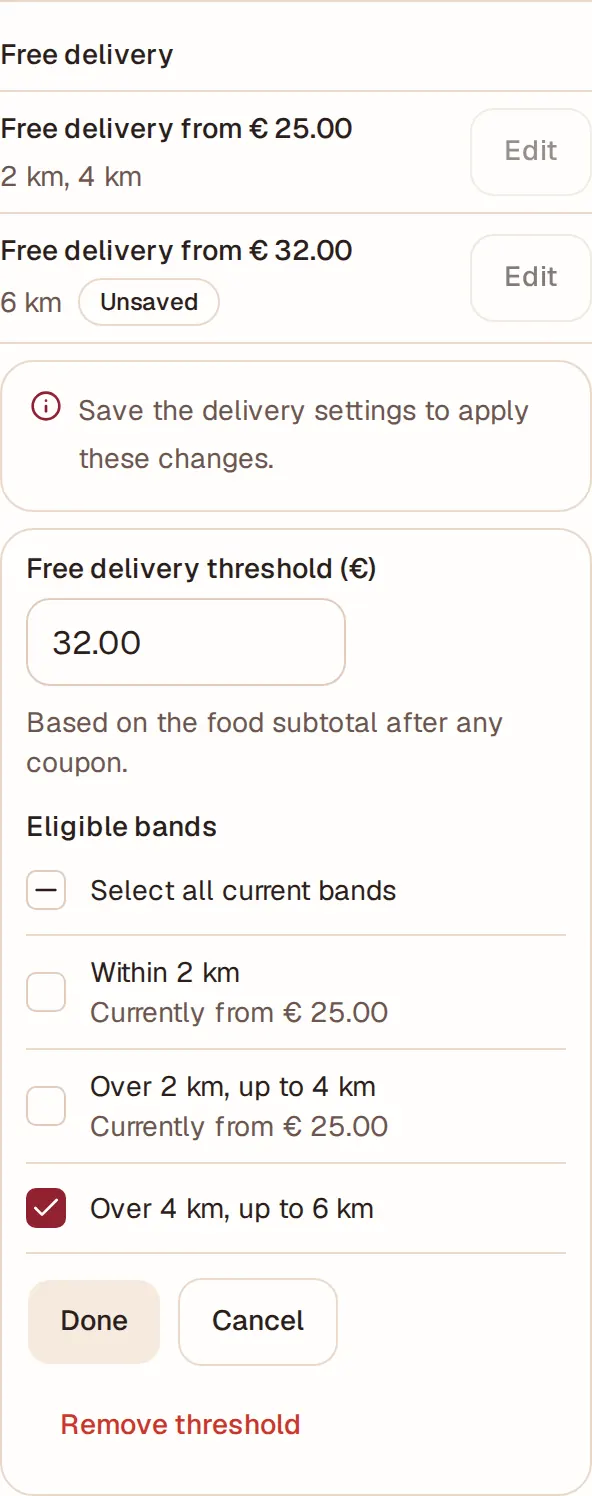
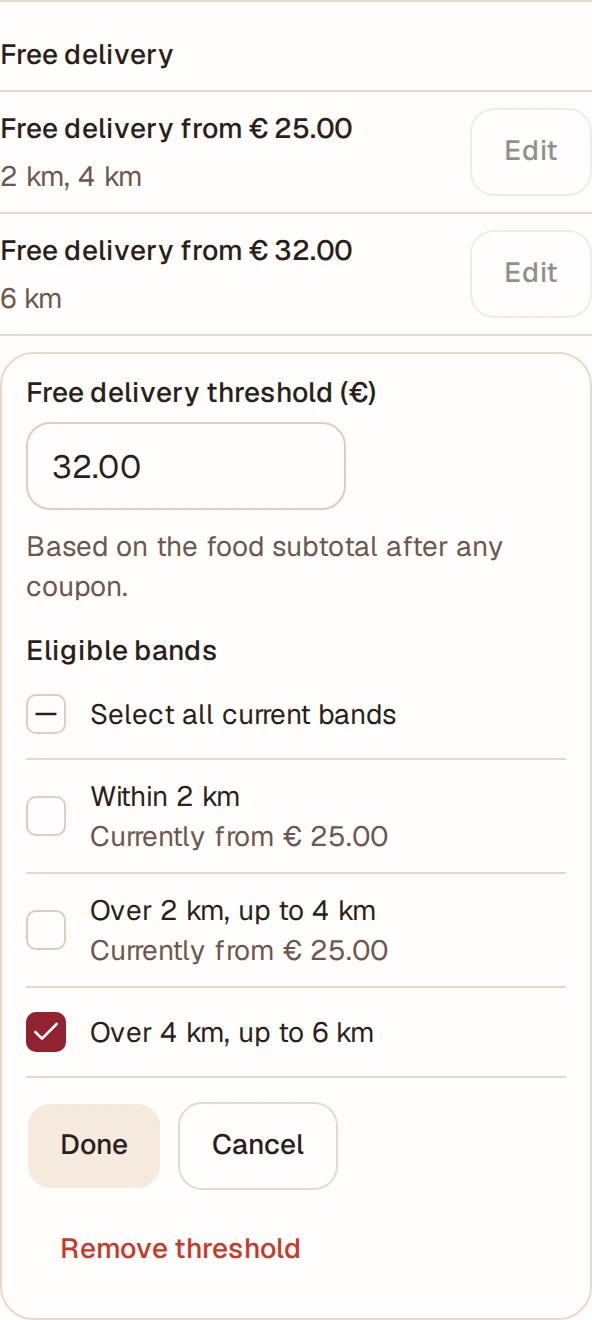
online: keep delivery settings actions in view

diff --git a/frontend/src/features/online/OnlineSettingsPage.tsx b/frontend/src/features/online/OnlineSettingsPage.tsx
@@ -1,4 +1,11 @@
-import { useEffect, useRef, useState, type FormEvent, type ReactNode } from "react";
+import {
+  useEffect,
+  useLayoutEffect,
+  useRef,
+  useState,
+  type FormEvent,
+  type ReactNode,
+} from "react";
 import { useQuery, useQueryClient } from "@tanstack/react-query";
 import { Copy, Download, ExternalLink, Plus, RefreshCw, Trash2, X } from "lucide-react";
 import { ConfirmDialog } from "@/components/confirm-dialog";
@@ -727,12 +734,14 @@ function DeliveryCard({
   send,
   feedback,
   edited,
+  saved,
 }: {
   settings: OnlineSettings;
   busy: boolean;
   send: SendSettings;
   feedback: ReactNode;
   edited: () => void;
+  saved: boolean;
 }) {
   const m = onlineMessages[useStaffLanguage()];
   // The local edit survives background refreshes until it is saved or discarded.
@@ -741,16 +750,34 @@ function DeliveryCard({
     selection: NonNullable<FreeDeliveryEdit>;
     snapshot: DeliveryDraft;
   } | null>(null);
-  const [error, setError] = useState("");
+  const [validation, setValidation] = useState<{ message: string; field: string } | null>(null);
+  const actionsRef = useRef<HTMLDivElement>(null);
   const value = draft ?? freeDeliveryEdit?.snapshot ?? deliveryDraft(settings);
   const parsed = deliveryInput(value);
   const unchanged = draft === null || (parsed.ok && sameDelivery(parsed.input, settings));
+  // Keep the success message at the save button after the draft is cleared.
+  const keepActionsInView = !unchanged || saved;
   // Fields are marked only after a failed save, beside its message.
-  const problem = error && !parsed.ok ? parsed.problem : null;
+  const problem = validation && !parsed.ok ? parsed.problem : null;
   const origin = parseOrigin(value.origin);
+  useLayoutEffect(() => {
+    if (!validation) return;
+    const actions = actionsRef.current;
+    const field = document.getElementById(validation.field);
+    if (!actions || !field) return;
+    // Center the field in the space above the footer, including the newly rendered error.
+    field.style.setProperty(
+      "scroll-margin-bottom",
+      `calc(var(--staff-bottom-bar-height) + ${actions.offsetHeight}px)`,
+    );
+    reveal(field);
+    return () => {
+      field.style.removeProperty("scroll-margin-bottom");
+    };
+  }, [validation]);
   const edit = (next: DeliveryDraft) => {
     edited();
-    setError("");
+    setValidation(null);
     setDraft(next);
   };
   const editTier = (index: number, patch: Partial<TierDraft>) =>
@@ -785,18 +812,18 @@ function DeliveryCard({
                     `delivery-note-${problem.language}`,
                   ]
                 : [m.setupIncomplete, origin ? "delivery-add-tier" : "delivery-origin"];
-      setError(message);
-      reveal(document.getElementById(field));
+      setValidation({ message, field });
       return;
     }
-    setError("");
+    setValidation(null);
     send(
       (signal) => saveDelivery(parsed.input, signal),
       () => setDraft(null),
     );
   }
   return (
-    <Card>
+    // Clip the card corners without making the card the sticky footer's scroll container.
+    <Card className="overflow-clip">
       <CardContent>
         <form className="space-y-5" onSubmit={save} noValidate>
           <div className="space-y-1">
@@ -989,26 +1016,38 @@ function DeliveryCard({
               />
             </div>
           ))}
-          {error && <Notice tone="error">{error}</Notice>}
-          {feedback}
-          <div className="flex flex-wrap gap-2">
-            <Button type="submit" disabled={busy || unchanged || freeDeliveryEdit !== null}>
-              {m.saveDelivery}
-            </Button>
-            {draft !== null && (
-              <Button
-                type="button"
-                variant="outline"
-                disabled={busy}
-                onClick={() => {
-                  setDraft(null);
-                  setError("");
-                  setFreeDeliveryEdit(null);
-                }}
-              >
-                {m.discardChanges}
-              </Button>
+          <div
+            ref={actionsRef}
+            className={cn(
+              "space-y-3 bg-card",
+              keepActionsInView && "sticky bottom-(--staff-bottom-bar-height) z-10 border-t py-3",
             )}
+          >
+            {validation ? <Notice tone="error">{validation.message}</Notice> : feedback}
+            <div className="flex flex-wrap gap-2">
+              <Button
+                type="submit"
+                className="px-3 md:px-4"
+                disabled={busy || unchanged || freeDeliveryEdit !== null}
+              >
+                {m.saveDelivery}
+              </Button>
+              {draft !== null && (
+                <Button
+                  type="button"
+                  variant="outline"
+                  className="px-3 md:px-4"
+                  disabled={busy}
+                  onClick={() => {
+                    setDraft(null);
+                    setValidation(null);
+                    setFreeDeliveryEdit(null);
+                  }}
+                >
+                  {m.discardChanges}
+                </Button>
+              )}
+            </div>
           </div>
         </form>
       </CardContent>
@@ -1292,7 +1331,13 @@ function OnlineSettingsContent({ account }: { account: CurrentAccount }) {
           {owner && <PhoneCard settings={settings} {...cardProps("phone")} />}
           {owner && <HoursCard settings={settings} {...cardProps("hours")} />}
           {owner && <PickupCard settings={settings} {...cardProps("pickup")} />}
-          {owner && <DeliveryCard settings={settings} {...cardProps("delivery")} />}
+          {owner && (
+            <DeliveryCard
+              settings={settings}
+              {...cardProps("delivery")}
+              saved={outcome?.card === "delivery" && outcome.error === null}
+            />
+          )}
           {owner && <CouponsCard settings={settings} {...cardProps("coupons")} />}
         </div>
       )}

diff --git a/frontend/tests/online.test.ts b/frontend/tests/online.test.ts
@@ -8,7 +8,6 @@ import {
   deliveryDraft,
   deliveryInput,
   deliveryTierRanges,
-  freeDeliveryChanges,
   emptyTierDraft,
   formatCountdown,
   formatMinute,
@@ -24,6 +23,7 @@ import {
   PICKUP_MINUTES,
   rejectReasons,
   requestTimes,
+  restoresBaseDeliveryFee,
   parseTime,
   sameDelivery,
   copyDay,
@@ -32,7 +32,6 @@ import {
   typedDeliveryFee,
   weekDraft,
   weekHours,
-  type TierDraft,
   type WeekDraft,
 } from "../src/features/online/state.ts";
 import {
@@ -398,7 +397,7 @@ test("free delivery applies one threshold to selected bands, and editing can mov
   assert.deepEqual(amounts(applyFreeDeliveryMinimum(replaced, 2800, [], null)), [null, null, null]);
 });
 
-test("free delivery marks changed groups and reports clearing a threshold on a retained band", () => {
+test("the base fee returns only when a retained band loses its free delivery threshold", () => {
   const saved = [
     { maxMeters: 2000, feeCents: 200, freeDeliveryMinCents: 2500 },
     { maxMeters: 4000, feeCents: 300, freeDeliveryMinCents: 2500 },
@@ -409,24 +408,20 @@ test("free delivery marks changed groups and reports clearing a threshold on a r
     { km: "2,0", fee: "2.00", freeDeliveryMinCents: 2500 },
     { km: "4", fee: "3.00", freeDeliveryMinCents: 2500 },
   ];
-  const changes = (tiers: TierDraft[]) => freeDeliveryChanges(tiers, saved);
-  assert.deepEqual(changes(draft), { amounts: new Set(), restoresBaseFee: false });
-  assert.deepEqual(changes(applyFreeDeliveryMinimum(draft, 2500, [1, 2], 2800)), {
-    amounts: new Set([2500, 2800]),
-    restoresBaseFee: false,
-  });
-  assert.deepEqual(changes(applyFreeDeliveryMinimum(draft, 2500, [1], 2500)), {
-    amounts: new Set([2500]),
-    restoresBaseFee: true,
-  });
-  assert.deepEqual(changes(applyFreeDeliveryMinimum(draft, 2500, [], null)), {
-    amounts: new Set([2500]),
-    restoresBaseFee: true,
-  });
-  assert.deepEqual(changes(draft.slice(0, 1)), {
-    amounts: new Set([2500]),
-    restoresBaseFee: false,
-  });
+  assert.equal(restoresBaseDeliveryFee(draft, saved), false);
+  assert.equal(
+    restoresBaseDeliveryFee(applyFreeDeliveryMinimum(draft, 2500, [1, 2], 2800), saved),
+    false,
+  );
+  assert.equal(
+    restoresBaseDeliveryFee(applyFreeDeliveryMinimum(draft, 2500, [1], 2500), saved),
+    true,
+  );
+  assert.equal(
+    restoresBaseDeliveryFee(applyFreeDeliveryMinimum(draft, 2500, [], null), saved),
+    true,
+  );
+  assert.equal(restoresBaseDeliveryFee(draft.slice(0, 1), saved), false);
 });
 
 test("delivery turns on only with the coordinates and a band, and off keeps both", () => {

diff --git a/frontend/src/features/online/FreeDeliverySettings.tsx b/frontend/src/features/online/FreeDeliverySettings.tsx
@@ -1,6 +1,5 @@
 import { useRef, useState } from "react";
 import { Notice } from "@/components/notice";
-import { Badge } from "@/components/ui/badge";
 import { Button } from "@/components/ui/button";
 import { Checkbox } from "@/components/ui/checkbox";
 import { Input } from "@/components/ui/input";
@@ -13,7 +12,7 @@ import { onlineMessages } from "./messages";
 import {
   applyFreeDeliveryMinimum,
   deliveryTierRanges,
-  freeDeliveryChanges,
+  restoresBaseDeliveryFee,
   type DeliveryTier,
   type TierDraft,
 } from "./state";
@@ -38,7 +37,6 @@ export function FreeDeliverySettings({
   const language = useStaffLanguage();
   const m = onlineMessages[language].freeDelivery;
   const ranges = deliveryTierRanges(tiers);
-  const changes = savedTiers && freeDeliveryChanges(tiers, savedTiers);
   const groups = new Map<number, string[]>();
   for (const band of ranges ?? []) {
     const minimum = tiers[band.index].freeDeliveryMinCents;
@@ -59,13 +57,10 @@ export function FreeDeliverySettings({
                 <p className="text-sm font-medium wrap-break-word">
                   {m.summary(formatMoney(amount, language))}
                 </p>
-                <div className="flex flex-wrap items-center gap-x-2 gap-y-1">
-                  <p className="min-w-0 text-sm wrap-break-word text-muted-foreground">
-                    {bands.join(m.bandSeparator)}
-                    {m.bandSuffix}
-                  </p>
-                  {changes?.amounts.has(amount) && <Badge variant="outline">{m.unsaved}</Badge>}
-                </div>
+                <p className="text-sm wrap-break-word text-muted-foreground">
+                  {bands.join(m.bandSeparator)}
+                  {m.bandSuffix}
+                </p>
               </div>
               <Button
                 type="button"
@@ -80,8 +75,8 @@ export function FreeDeliverySettings({
           ))}
         </ul>
       )}
-      {changes && changes.amounts.size > 0 && (
-        <Notice>{changes.restoresBaseFee ? m.removalPending : m.saveHint}</Notice>
+      {ranges && savedTiers && restoresBaseDeliveryFee(tiers, savedTiers) && (
+        <Notice>{m.removalPending}</Notice>
       )}
       {editing !== null && ranges ? (
         <ThresholdEditor

diff --git a/frontend/src/features/online/state.ts b/frontend/src/features/online/state.ts
@@ -217,27 +217,16 @@ export function applyFreeDeliveryMinimum(
   }));
 }
 
-export function freeDeliveryChanges(tiers: TierDraft[], savedTiers: DeliveryTier[]) {
-  const saved = new Map(
-    savedTiers.map((tier) => [tier.maxMeters, tier.freeDeliveryMinCents ?? null]),
+export function restoresBaseDeliveryFee(tiers: TierDraft[], savedTiers: DeliveryTier[]) {
+  const waivedDistances = new Set(
+    savedTiers.filter((tier) => tier.freeDeliveryMinCents != null).map((tier) => tier.maxMeters),
   );
-  const amounts = new Set<number>();
-  let restoresBaseFee = false;
-  for (const tier of tiers) {
+  return tiers.some((tier) => {
     const maxMeters = parseKm(tier.km);
-    const previous = maxMeters === null ? null : (saved.get(maxMeters) ?? null);
-    if (maxMeters !== null) saved.delete(maxMeters);
-    const minimum = tier.freeDeliveryMinCents;
-    if (previous === minimum) continue;
-    if (previous !== null) amounts.add(previous);
-    if (minimum !== null) amounts.add(minimum);
-    if (previous !== null && minimum === null) restoresBaseFee = true;
-  }
-  // A deleted or moved band can also remove a group's last member.
-  for (const minimum of saved.values()) {
-    if (minimum !== null) amounts.add(minimum);
-  }
-  return { amounts, restoresBaseFee };
+    return (
+      tier.freeDeliveryMinCents === null && maxMeters !== null && waivedDistances.has(maxMeters)
+    );
+  });
 }
 
 export function deliveryDraft(settings: DeliverySettings): DeliveryDraft {

diff --git a/frontend/src/features/online/messages.ts b/frontend/src/features/online/messages.ts
@@ -140,8 +140,6 @@ const zh = {
     bandSuffix: " 档",
     done: "完成",
     remove: "移除这组门槛",
-    unsaved: "未保存",
-    saveHint: "保存配送设置后生效。",
     removalPending: "保存配送设置后，移除门槛的档位将按基础配送费计费。",
     amountProblem: "请输入大于 0 的金额。",
     bandsProblem: "请选择至少一个档位。",
@@ -317,8 +315,6 @@ export const onlineMessages: Record<Language, typeof zh> = {
       bandSuffix: "",
       done: "Fine",
       remove: "Rimuovi la soglia",
-      unsaved: "Da salvare",
-      saveHint: "Salva le impostazioni di consegna per applicare le modifiche.",
       removalPending:
         "Dopo il salvataggio, alle fasce da cui hai rimosso la soglia si applica la tariffa base.",
       amountProblem: "Inserisci un importo maggiore di 0.",
@@ -490,8 +486,6 @@ export const onlineMessages: Record<Language, typeof zh> = {
       bandSuffix: "",
       done: "Done",
       remove: "Remove threshold",
-      unsaved: "Unsaved",
-      saveHint: "Save the delivery settings to apply these changes.",
       removalPending: "After you save, bands with a removed threshold will use their base fee.",
       amountProblem: "Enter an amount above 0.",
       bandsProblem: "Select at least one band.",

diff --git a/frontend/src/features/accounts/AccountLayout.tsx b/frontend/src/features/accounts/AccountLayout.tsx
@@ -48,7 +48,7 @@ export function StaffLayout({ children }: { children: ReactNode }) {
     );
   return (
     <PushProvider key={pushScope} account={account}>
-      <div className="min-h-dvh md:flex">
+      <div className="min-h-dvh [--staff-bottom-bar-height:calc(--spacing(15)+1px+env(safe-area-inset-bottom))] md:flex md:[--staff-bottom-bar-height:0px]">
         <StaffNav account={account} />
         <main className="min-w-0 flex-1 px-4 pt-[max(1.25rem,env(safe-area-inset-top))] pb-28 sm:px-6 md:pt-8 md:pb-12 lg:px-8">
           {account.services.online && (

diff --git a/frontend/src/features/accounts/StaffNav.tsx b/frontend/src/features/accounts/StaffNav.tsx
@@ -49,7 +49,7 @@ export function StaffNav({ account }: { account: CurrentAccount }) {
       </nav>
       <nav
         aria-label={label}
-        className="fixed inset-x-0 bottom-0 z-40 border-t bg-card/95 pb-[env(safe-area-inset-bottom)] backdrop-blur md:hidden"
+        className="fixed inset-x-0 bottom-0 z-40 h-(--staff-bottom-bar-height) border-t bg-card/95 pb-[env(safe-area-inset-bottom)] backdrop-blur md:hidden"
       >
         <div
           className="mx-auto grid max-w-lg px-1 pt-1"

diff --git a/docs/reference/online-ordering.md b/docs/reference/online-ordering.md
@@ -156,11 +156,12 @@ restaurant-wide delivery minimum. The owner can apply a threshold to several ban
 set different thresholds for different bands. Matching thresholds appear together with an Edit
 action. Done closes the editor and keeps changes in the card. Unchecking a band clears its threshold
 once saved. Remove threshold clears the whole group, as does choosing Done with every band unchecked.
-The card marks edited groups as unsaved and states when removed thresholds will restore the base
-fee. Save delivery applies the changes together with the rest of the delivery settings. New bands
-start with an empty threshold. The intro describes automatic fees when
-`deliveryAutoQuote` is true, otherwise bands picked on acceptance. Turning the switch on without the
-coordinates or a band fails the save check, which scrolls to the missing field.
+The card states when removed thresholds will restore the base fee. Save delivery applies the
+changes together with the rest of the delivery settings. While the card has changes, its save and
+discard buttons stay in view within the card, above the staff tabs on phones. The same action area
+shows the save result. New bands start with an empty threshold. The intro describes automatic fees
+when `deliveryAutoQuote` is true, otherwise bands picked on acceptance. Turning the switch on without
+the coordinates or a band fails the save check, which scrolls to the missing field.
 
 Owner editor screenshots are available in [English](../images/free-delivery-settings-en.webp),
 [Italian](../images/free-delivery-settings-it.webp) and [Chinese](../images/free-delivery-settings-zh.webp).
